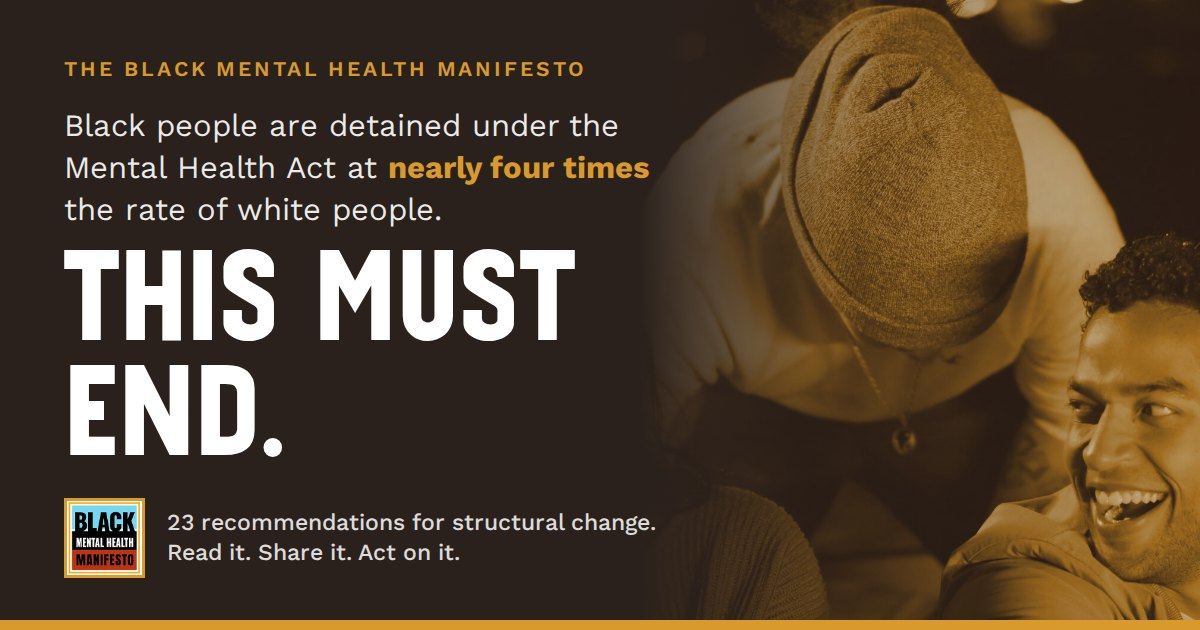
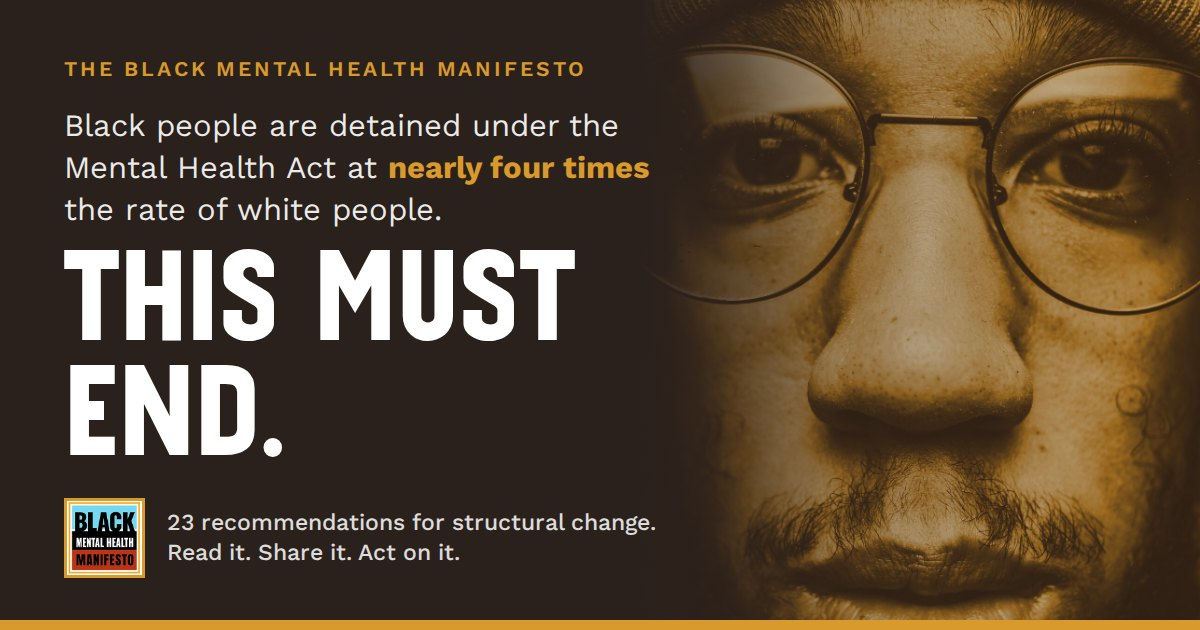
Homepage hero: direct-gaze portrait instead of the laughing group
'This must end.' sat uncomfortably over laughter once the tint was
lightened. The young-man close-up (unsmiling, looking straight out)
moves to the homepage and the link-preview image; the community-joy
photo moves to the manifesto page header, under an unchanged tint.

Changed region(s): [[0.555, 0.0, 1.0, 0.9952], [0.6167, 0.5429, 0.6475, 0.573]]

diff --git a/docs/image-credits.md b/docs/image-credits.md
@@ -6,9 +6,9 @@ Each page hero uses a distinct image. Replace with BMHWA's own photography when 
 
 | File | Hero | Pexels |
 |------|------|--------|
-| community-joy.jpg | home | https://www.pexels.com/photo/7149169/ |
+| community-joy.jpg | manifesto | https://www.pexels.com/photo/7149169/ |
 | conversation.jpg | home quote band | https://www.pexels.com/photo/16582974/ |
-| young-man.jpg | manifesto | https://www.pexels.com/photo/4437655/ |
+| young-man.jpg | home, link-preview image | https://www.pexels.com/photo/4437655/ |
 | fila-portrait.jpg | case-for-change | https://www.pexels.com/photo/34435728/ |
 | woman-afro.jpg | take-action | https://www.pexels.com/photo/15766838/ |
 | family-kitchen.jpg | learning | https://www.pexels.com/photo/5082868/ |
